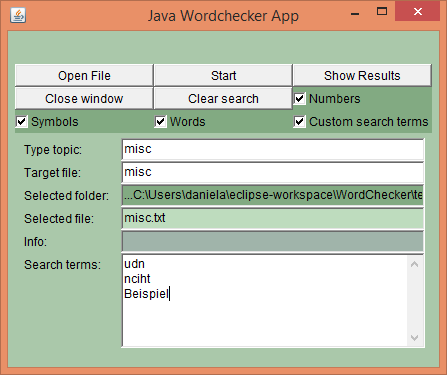
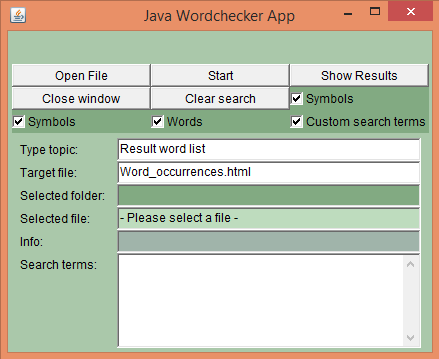
Separate user search terms list, window slightly enlarged

diff --git a/examples/Results_Kafka - Die Verwandlung.html b/examples/Results_Kafka - Die Verwandlung.html
@@ -4064,6 +4064,9 @@ zögernden	1<br>
 Ärmel	1; <em>also found:</em> Äpfel	1 (1x) ; <em>also found:</em> Ärger	1 (1x) <br>
 </details><br>
 <details><summary>Special tokens found:</summary>
+--	92<br>
+</details><br>
+<details><summary>Searched tokens found:</summary>
 - Found: Sams in:  Entschuldigungsbriefe, Herr Samsa an seine Direktion	1<br>
 - Found: Sams in:  Guten Morgen, Herr Samsa, rief der Prokurist	1<br>
 - Found: Sams in:  Mißtrauen trat Herr Samsa mit den zwei Frauen	1<br>
@@ -4097,6 +4100,5 @@ zögernden	1<br>
 - Found: Sams in: seitwärts. Frau Samsa machte eine Bewegung	1<br>
 - Found: Sams in: zu Herrn Samsa auf, als verlange er	1<br>
 - Found: Sams in: über die sich Herr Samsa schon während ihrer	1<br>
---	92<br>
 </details><br>
 </font></body></html>

diff --git a/src/app/Writeinfile.java b/src/app/Writeinfile.java
@@ -78,6 +78,10 @@ public class Writeinfile {
 		//regardless of which
 		try {
 			for( String entry : targs ){
+				if(entry.startsWith("- Found:")) {
+					userSearchTokens.add(entry);
+					continue;
+				}
 				if (Character.isDigit(entry.charAt(0))) {
 					if(RegexList.hasISBN(entry)) {
 						specialTokens.add("ISBN candidate: "+entry);
@@ -152,6 +156,13 @@ public class Writeinfile {
 				insertParEnd();
 				pWriter.println("<details><summary>Reference signs found:</summary>");
 				for (String o:refSignTokens) {
+					pWriter.println(o+"<br>");
+				}
+			}
+			if(userSearchTokens.size()>0) {
+				insertParEnd();
+				pWriter.println("<details><summary>Searched tokens found:</summary>");
+				for (String o:userSearchTokens) {
 					pWriter.println(o+"<br>");
 				}
 			}

diff --git a/src/app/UserDialog.java b/src/app/UserDialog.java
@@ -82,7 +82,7 @@ public class UserDialog {
 	   /** Widget settings */
     private void prepareGUI(){
         mainFrame = new Frame("Java Wordchecker App");
-        mainFrame.setSize(432,347);
+        mainFrame.setSize(440,360);
         Color moss = new Color(170,200,170);
         Color light = new Color(190, 220, 190);
         Color darker = new Color(130,170,130);

diff --git a/src/app/CountWords.java b/src/app/CountWords.java
@@ -217,7 +217,6 @@ public class CountWords extends CharRep {
 		}
 	}
 	
-	//Currently integrated in tokens list, to be separated later.
 	void userPhraseFinder(String line) {
 		if(userSearchTerms.length == 1 && userSearchTerms[0].length()==0){
 			return;
